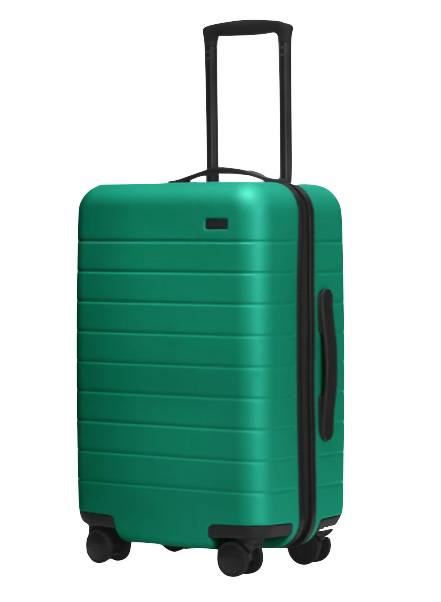
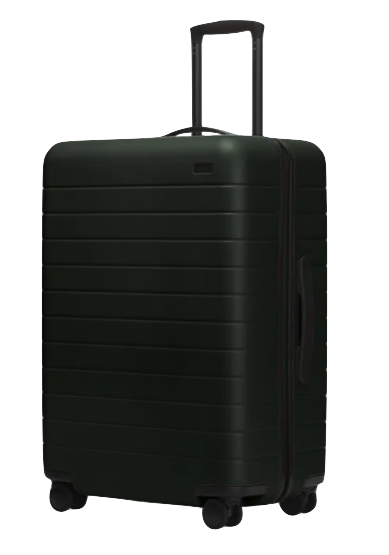
changed the second suitcase to meduim green

diff --git a/index.html b/index.html
@@ -42,7 +42,7 @@
 												<table class="content">
 													<tr>
 														<td>
-															<a href="https://www.awaytravel.com/suitcases/large/canary"><img src="images/yellow.png" width="150" alt="yellow suitcase" style="max-width: 150px;">
+															<a href="https://www.awaytravel.com/suitcases/large/canary"><img src="images/yellow.png" width="150" alt="yellow suitcase" style="max-width: 170px;">
 															</a>
 														</td>
 													</tr>
@@ -67,18 +67,17 @@
 												<table class="content">
 													<tr>
 														<td>
-															<a href="https://www.awaytravel.com/suitcases/expandable-bigger-carry-on/navy"><img src="images/dark.png"
-																	width="150" alt="navy suitcase" style="max-width: 120px;">
+															<a href="https://www.awaytravel.com/suitcases/medium/green"><img src="images/green.png"
+																	width="150" alt="green suitcase" style="max-width: 115px;">
 															</a>
 														</td>
 													</tr>
 													<tr>
 														<td style="padding: 10px;">
-															<p style="font-size: 17px; font-weight: bold;">THE EXPANDABLE BIGGER CARRY-ON</p>
-															<P>Meet our softside Expandable Bigger Carry-On suitcase, thoughtfully built with a durable, water-resistant nylon exterior
-															designed to expand by 1.75" so you can pack even more in. Plus, its flexibility makes it that much easier to take it
-															anywhere you might be going.</P>
-															<a href="https://www.awaytravel.com/suitcases/large/canary">Learn more...</a>
+															<p style="font-size: 17px; font-weight: bold;">THE MEDIUM</p>
+															<P>Our Medium suitcase is a checked bag built to last, with a durable polycarbonate hard shell and 360° spinner wheels that
+															ensure a smooth ride. Plus, its interior compression system and hidden laundry bag make packing that much easier.</P>
+															<a href="https://www.awaytravel.com/suitcases/medium/green">Learn more...</a>
 														</td>
 													</tr>
 												</table>
